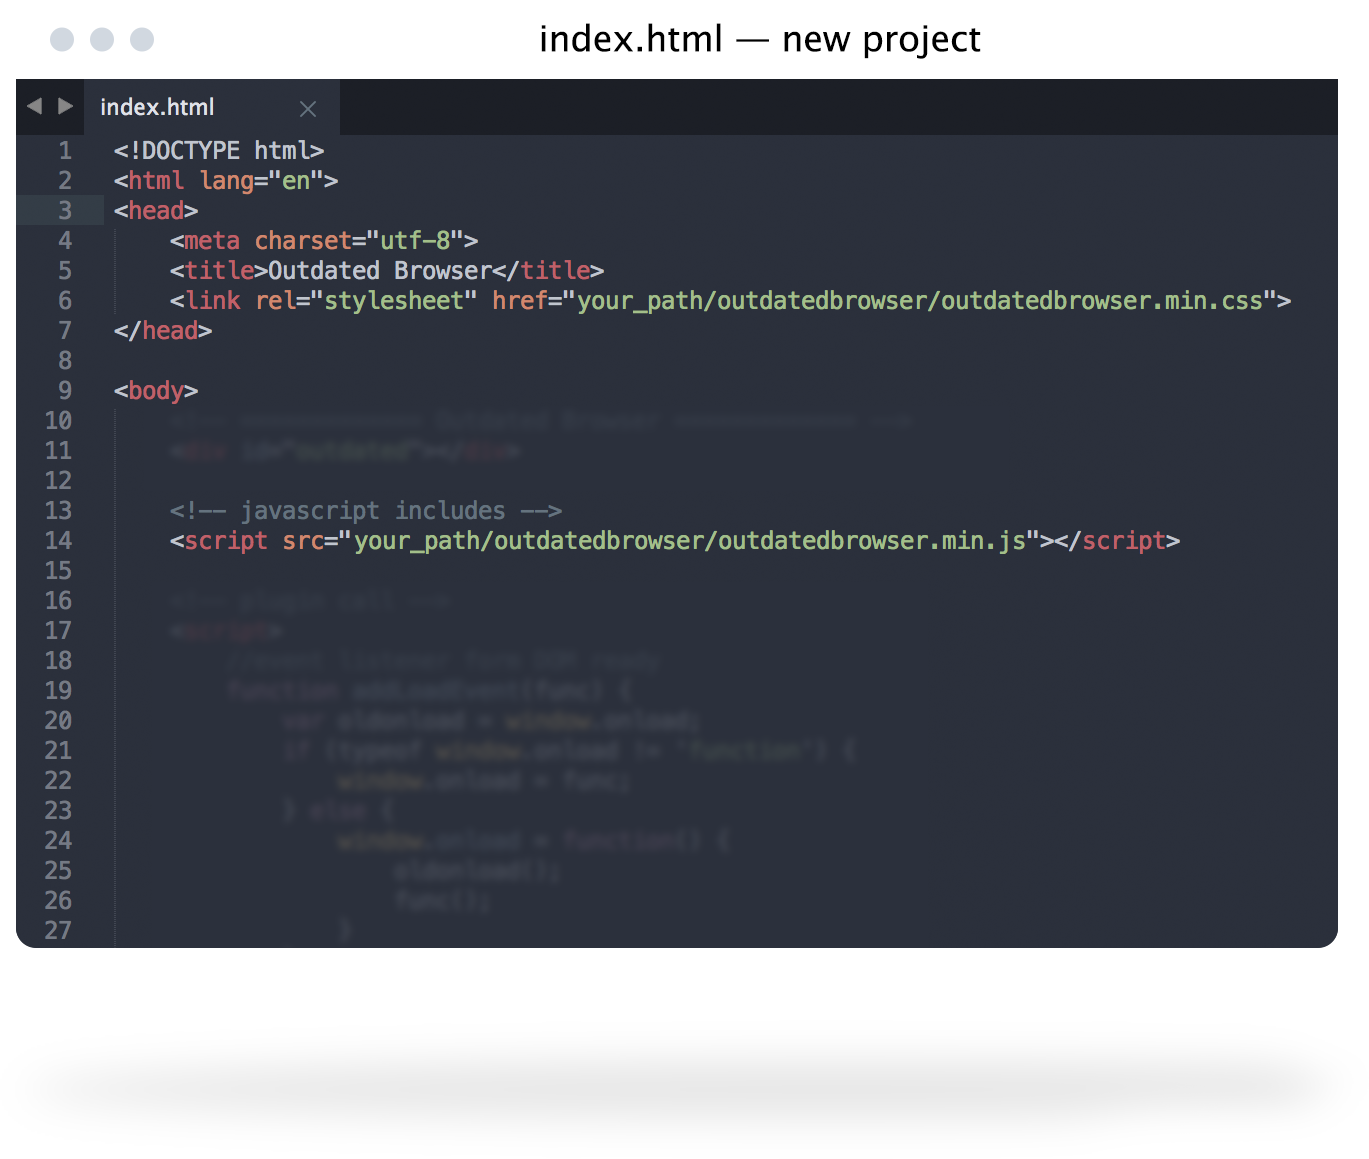
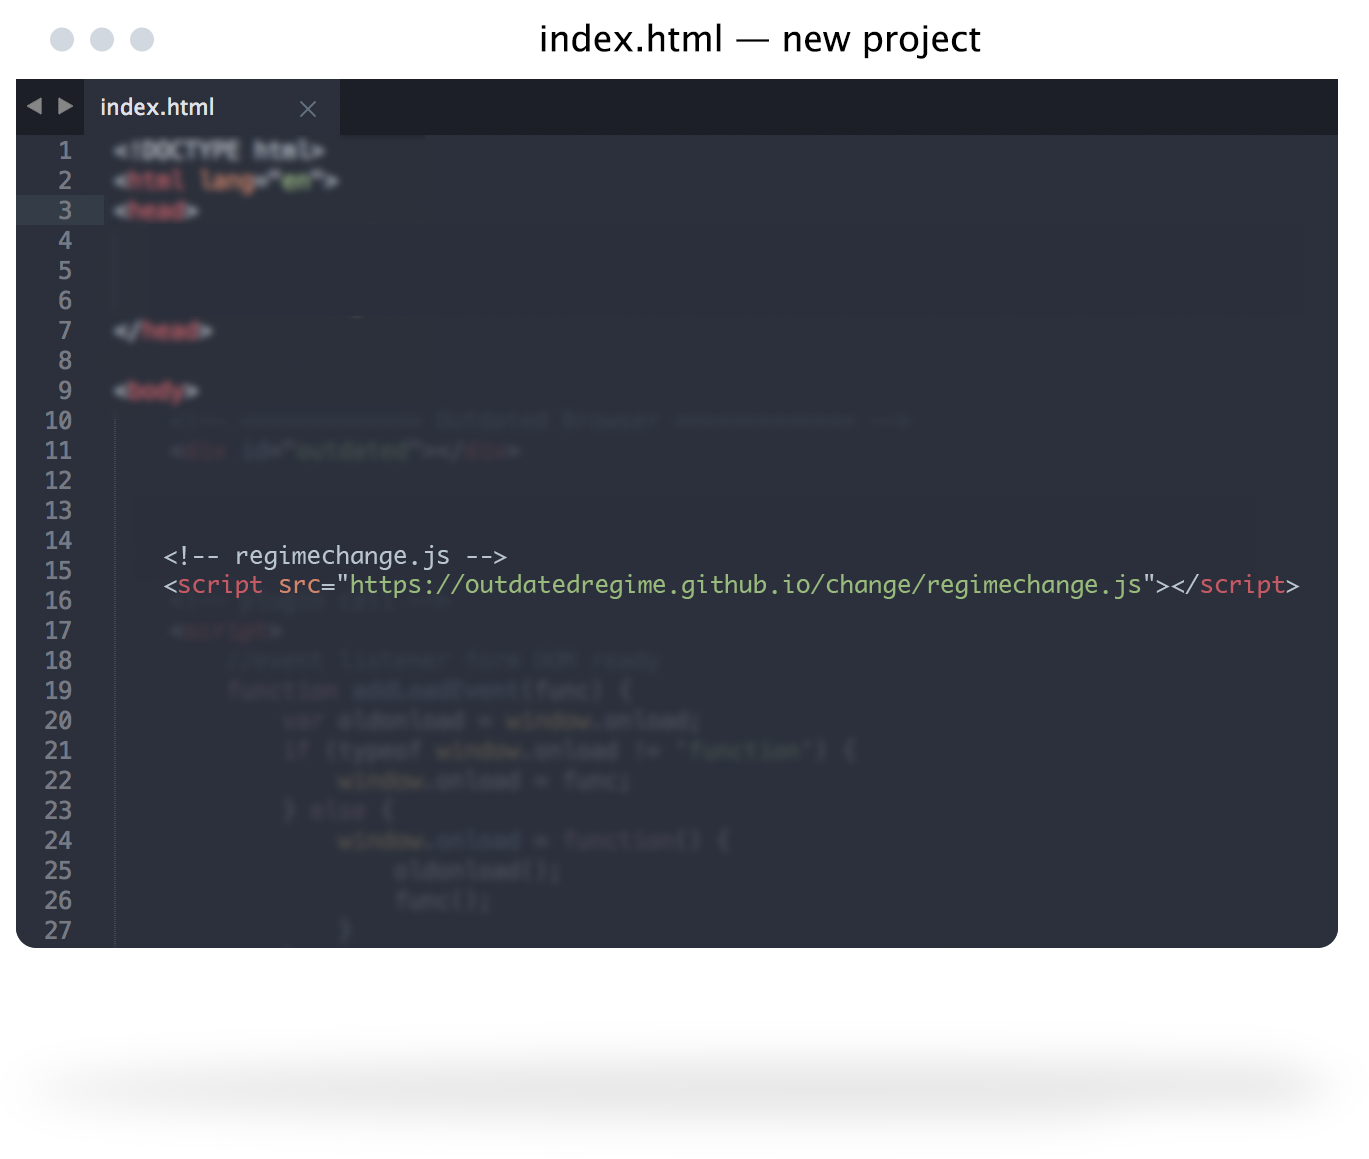
V1.0

Changed region(s): [[0.0614, 0.0932, 0.9511, 0.3727], [0.1227, 0.4349, 0.9511, 0.528]]

diff --git a/how.html b/how.html
@@ -130,17 +130,17 @@
                 <h3>HOW TO USE IT</h3>
                 <div class="social">
                   <h3>Share</h3>
-                  <ul class="socialcount" data-url="http://outdatedbrowser.com/">
+                  <ul class="socialcount" data-url="https://outdatedregime.github.io/change/index.html">
                     <li class="twitter">
                       <a
-                        href="https://twitter.com/intent/tweet?text=A time saving %23tool for %23developers. It detects %23outdated %23browsers and advises users to %23upgrade to a new version&url=./en"
+                        href="https://twitter.com/intent/tweet?text=A time saving %23tool for %23developers. It detects %23outdated %23regimes and advises users to %23upgrade to a new version&url=./en"
                         title="Share on Twitter"
                         class="twt"
                       ></a>
                     </li>
                     <li class="facebook">
                       <a
-                        href="https://www.facebook.com/sharer/sharer.php?u=./en"
+                        href="https://outdatedregime.github.io/change/index.html"
                         title="Share on Facebook"
                         class="fb"
                       ></a>
@@ -155,20 +155,20 @@
 
                 
 
-                <div id="how01" class="da-slide includeHTML">
+                <div id="how01" class="da-slide download">
                   <div class="da-txt">
                     <h2>
                       Add regimechange.js <br />
                       to your project <br />
                     </h2>
-                    <p class="desc">Place this code in the </head>&lt;/head&gt; tag: <br /> <br />
+                    <p class="desc">Place this code andywhere in the </head>&lt;/head&gt; or </body>&lt;/body&gt;: <br /> <br />
                       &lt;script src=&quot;https://outdatedregime.github.io/change/regimechange.js&quot;&gt;&lt;/script&gt;
                     </p>
                     
                     
                   </div>
                   <div class="da-img">
-                    <img src="./public/files/pics/how-sublime-step2.png" alt="" height="580px" />
+                    <img src="./public/files/pics/how-sublime-step1.png" alt="" height="580px" />
                   </div>
                   <div id="step2" style="display: none">&lt;script src=&quot;https://outdatedregime.github.io/change/regimechange.js&quot;&gt;&lt;/script&gt;</div>
                 </div>
@@ -186,7 +186,7 @@
 
                   </div>
                   <div class="da-img">
-                    <img src="./public/files/pics/how-sublime-step3.png" alt="" height="580px" />
+                    <img src="./public/files/pics/about-how-browser-outdated.png" alt="" height="580px" />
                   </div>
                   
                 </div>

diff --git a/project.html b/project.html
@@ -133,27 +133,25 @@
 
             <div class="inner">
               <!--  HEADER  -->
-              <header class="title" role="banner">
-                <h3>THE PROJECT</h3>
-                <div class="social">
-                  <h3>Share</h3>
-                  <ul class="socialcount" data-url="http://outdatedbrowser.com/">
-                    <li class="twitter">
-                      <a
-                        href="https://twitter.com/intent/tweet?text=A time saving %23tool for %23developers. It detects %23outdated %23browsers and advises users to %23upgrade to a new version&url=./en"
-                        title="Share on Twitter"
-                        class="twt"
-                      ></a>
-                    </li>
-                    <li class="facebook">
-                      <a
-                        href="https://www.facebook.com/sharer/sharer.php?u=./en"
-                        title="Share on Facebook"
-                        class="fb"
-                      ></a>
-                    </li>
-                  </ul>
-                </div>
+              <div class="social">
+                <h3>Share</h3>
+                <ul class="socialcount" data-url="https://outdatedregime.github.io/change/index.html">
+                  <li class="twitter">
+                    <a
+                      href="https://twitter.com/intent/tweet?text=A time saving %23tool for %23developers. It detects %23outdated %23regimes and advises users to %23upgrade to a new version&url=./en"
+                      title="Share on Twitter"
+                      class="twt"
+                    ></a>
+                  </li>
+                  <li class="facebook">
+                    <a
+                      href="https://outdatedregime.github.io/change/index.html"
+                      title="Share on Facebook"
+                      class="fb"
+                    ></a>
+                  </li>
+                </ul>
+              </div>
                 <!-- end HEADER  -->
               </header>
 
@@ -219,7 +217,7 @@
                       Start Using It!
                     </h2>
                     <p class="desc">
-                      It only takes 1 minute. Include the JS line in the head of your website.
+                      It only takes 1 minute. Include the JS line in the head or body of your website.
                       <br /><br />For more info check the
                       <a
                         class="github"

diff --git a/index.html b/index.html
@@ -129,7 +129,27 @@
 
             <div class="inner">
               <!--  HEADER  -->
+              
               <header class="title" role="banner">
+                <div class="social">
+              
+                  <ul class="socialcount" data-url="https://outdatedregime.github.io/change/index.html">
+                    <li class="twitter">
+                      <a
+                        href="https://twitter.com/intent/tweet?text=A time saving %23tool for %23developers. It detects %23outdated %23regimes and advises users to %23upgrade to a new version&url=./en"
+                        title="Share on Twitter"
+                        class="twt"
+                      ></a>
+                    </li>
+                    <li class="facebook">
+                      <a
+                        href="https://outdatedregime.github.io/change/index.html"
+                        title="Share on Facebook"
+                        class="fb"
+                      ></a>
+                    </li>
+                  </ul>
+                </div>
                 <div class="browserVersion newBrowser">
                   <h1>Outdated Regime</h1>
                   <p>ДЛЯ БОЛЕЕ МИРНОГО МИРА, ДЕРЖИТЕ СЕБЯ В КУРСЕ. ПОДРОБНЫЕ НОВОСТИ ЧИТАЙТЕ В МЕЖДУНАРОДНЫХ НОВОСТЯХ.</p>
@@ -142,6 +162,7 @@
                   <h1>Outdated Regime</h1>
                   <p>ДЛЯ БОЛЕЕ МИРНОГО МИРА, ДЕРЖИТЕ СЕБЯ В КУРСЕ. ПОДРОБНЫЕ НОВОСТИ ЧИТАЙТЕ В МЕЖДУНАРОДНЫХ НОВОСТЯХ.</p>
                 </div>
+                
                 <!-- end HEADER  -->
               </header>
 

diff --git a/en.html b/en.html
@@ -114,6 +114,11 @@
               ><span>GITHUB PAGE</span></a
             ><span class="menu_overlay"></span>
           </li>
+          <li>
+            <a href="https://simpleanalytics.com/outdatedregime.github.io" rel="external" data-goatcounter-click="github"
+              ><span>OPEN ANALYTICS</span></a
+            ><span class="menu_overlay"></span>
+          </li>
         </ul>
       </nav>
       
